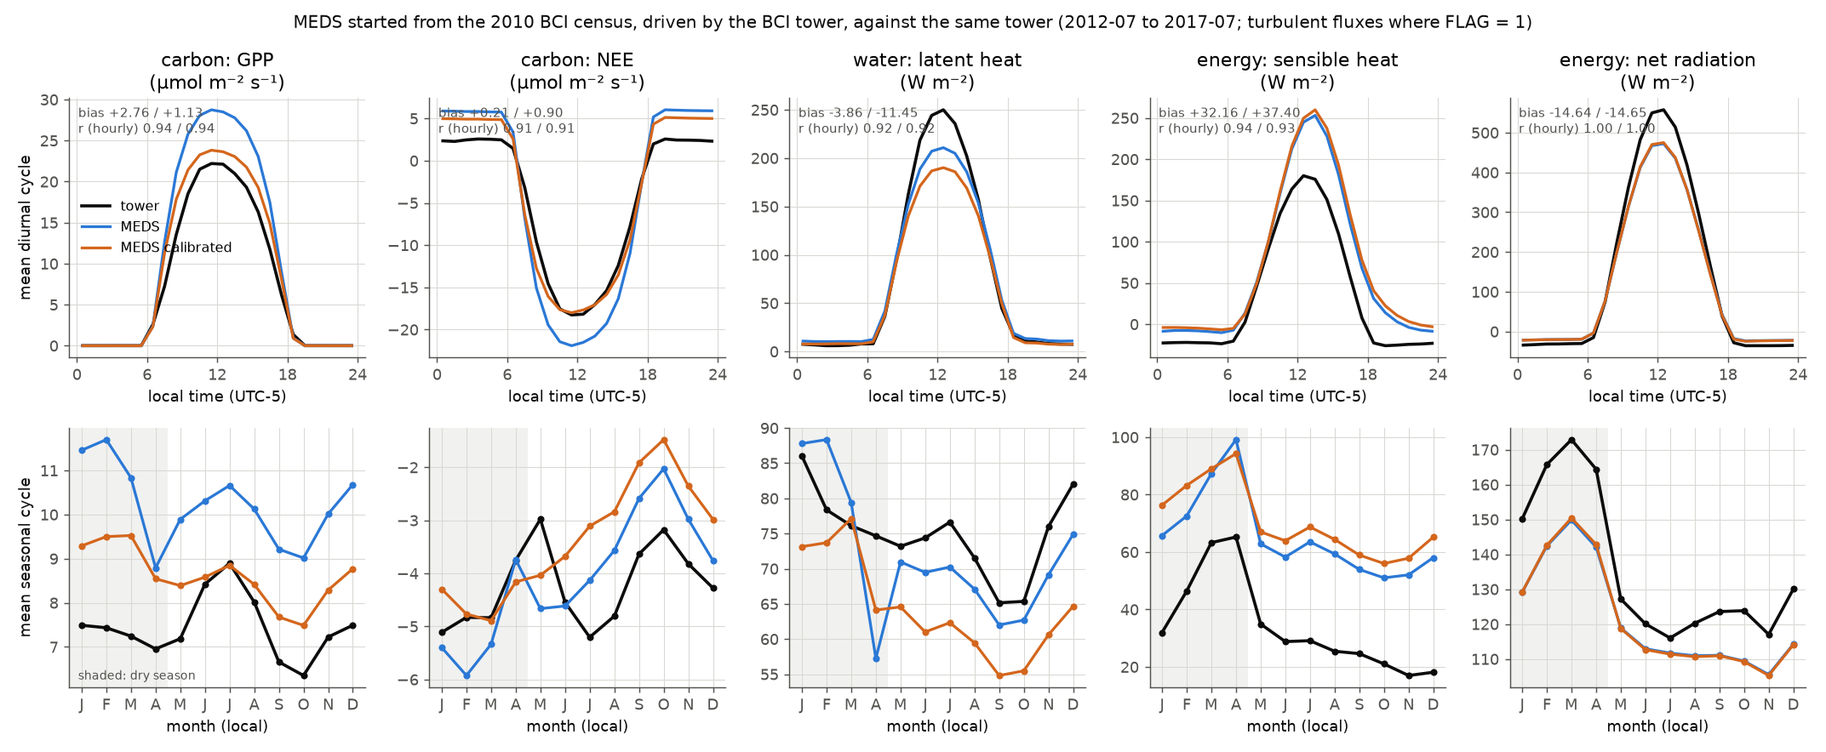
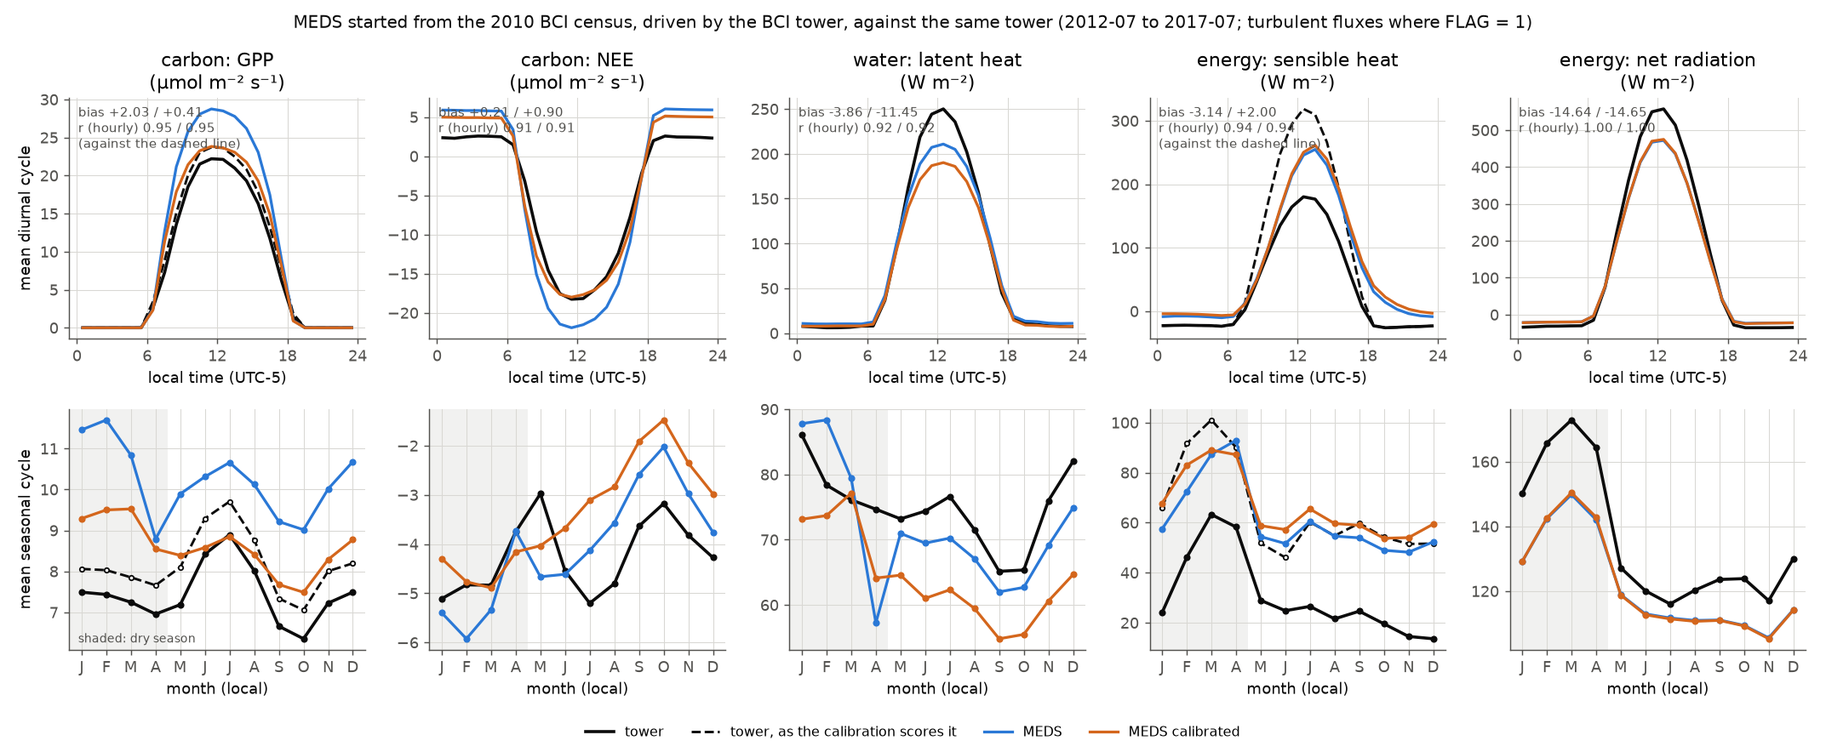
BCI example: eight threads, and compare with what the calibration scores
- [run].n_threads = 8 in the example's configs: the output is byte-identical
  to one thread's (2,436 output variables checked); a five-year run takes
  4.6 min instead of 26. docs/building.md's timings are remeasured on the
  130-patch stand.
- plot_evaluation.py draws the tower as the calibration scores it (dashed,
  by day: GPP with kappa, H and LE with the closure gap), from the
  calibration's observation models and fit.json; bias and r are against it.
  The README's table gives the tower as measured and as the fit's target:
  GPP 8.60 against 8.19 (default 10.22); H by day 141 against 167.
- The calibration figure says in words what prior z and the whisker are;
  the README explains the MAP.
- fit.json's kappa summary and report.md recomputed with the fixed summary.

diff --git a/examples/example_flux_tower_bci/plot_evaluation.py b/examples/example_flux_tower_bci/plot_evaluation.py
@@ -16,10 +16,13 @@ calendar month is shown when the tower measured at least ten days of it over the
 NEE is positive toward the atmosphere in both.
 
 With --calibrated, the calibrated run (run_example.py --calibrate) is drawn beside the default,
-and the statistics hold both.
+and the statistics hold both. With the calibration's fit (--fit, calibration/fit.json by default),
+the tower is also drawn as the calibration scores it (dashed): GPP with the tower's respiration
+divided by the fitted kappa, and H and LE with the energy-closure gap shared as the fit shared it
+(scripts/calibrate_fast/observation_models.py). Each panel's bias and r are then against that line.
 
 Usage: python plot_evaluation.py [--out evaluation.png] [--stats output/evaluation_stats.json]
-                                 [--calibrated "output/cal-F-*.nc"]
+                                 [--calibrated "output/cal-F-*.nc"] [--fit calibration/fit.json]
 """
 import argparse
 import glob
@@ -35,8 +38,13 @@ import pandas as pd  # noqa: E402
 from netCDF4 import Dataset  # noqa: E402
 
 HERE = os.path.dirname(os.path.abspath(__file__))
-sys.path.insert(0, os.path.join(HERE, "..", "..", "scripts", "prepare_flux_tower"))
+ROOT = os.path.join(HERE, "..", "..")
+for path in ("scripts/prepare_flux_tower", "scripts/calibrate_fast", "python"):
+    sys.path.insert(0, os.path.join(ROOT, path))
 import tower_inputs as ti  # noqa: E402  (the one reader of tower files)
+import observation_models as om  # noqa: E402  (the calibration's observation models)
+import settings as calibration_settings  # noqa: E402
+from meds.config import load_toml  # noqa: E402
 MIN_MONTH_HOURS = 240          # a calendar month needs at least ten days of hours the tower measured
 INK, MUTED, GRID = "#0b0b0b", "#52514e", "#d9d8d4"
 MODEL, TOWER, CALIBRATED = "#2a78d6", INK, "#d4661c"
@@ -64,14 +72,38 @@ def read_model(pattern, utc_offset_h):
     return model.where(model.abs() < 1e30)
 
 
-def read_tower(site):
+def calibration_targets(table, site, fit_path, config_path):
+    """The tower as the calibration scores it, on its measured half hours: by day (the calibration's
+    targets are daytime ones), GPP with the tower's respiration divided by kappa, and H and LE with
+    the closure gap shared as the fit shared it; at night the measured flux. Returns the columns
+    (named as the tower's) and kappa."""
+    with open(fit_path) as fh:
+        fit = json.load(fh)
+    settings = calibration_settings.complete(load_toml(config_path))
+    f, _ = om.closure_factor(table.values, table.measured, site.utc_offset, settings["closure"])
+    shares = fit["data"]["closure"]["shares"]
+    v = table.values.where(table.measured)
+    h, le = om.corrected(pd.DataFrame({"h": v["H"], "le": v["LE"], "closure_f": f}), shares["h"], shares["le"])
+    kappa = fit["map"]["kappa"]
+    day = table.values["SWdown"] > float(settings["tower"]["daytime_sw"])
+    target = pd.DataFrame({"GPP": v["GPP"] + (1.0 / kappa - 1.0) * v["RECO"], "H": h, "LE": le})
+    return target.where(day, v[["GPP", "H", "LE"]]), kappa
+
+
+def read_tower(site, fit_path=None, config_path=None):
     """The tower's measured half hours (the site TOML's reader), averaged to the model's UTC hours
-    -- an hour counts when both its half hours were measured -- and moved to local time."""
+    -- an hour counts when both its half hours were measured -- and moved to local time. With the
+    calibration's fit, also the tower as the calibration scores it (calibration_targets)."""
     table = ti.read_standard(site)
     cols = [col for _, col, *_ in PAIRS]
     tower = table.values[cols].where(table.measured[cols])
-    hourly = tower.resample("1h").mean().where(tower.resample("1h").count() == 2)
-    return hourly.set_axis(hourly.index + pd.Timedelta(hours=site.utc_offset))
+    target, kappa = (calibration_targets(table, site, fit_path, config_path) if fit_path
+                     else (pd.DataFrame(index=tower.index), None))
+
+    def hourly(df):
+        h = df.resample("1h").mean().where(df.resample("1h").count() == 2)
+        return h.set_axis(h.index + pd.Timedelta(hours=site.utc_offset))
+    return hourly(tower), hourly(target), kappa
 
 
 def stats(m, t):
@@ -88,10 +120,15 @@ def main(argv=None):
     ap.add_argument("--out", default=os.path.join(HERE, "evaluation.png"))
     ap.add_argument("--stats", default=os.path.join(HERE, "output", "evaluation_stats.json"))
     ap.add_argument("--calibrated", default=None, help="the calibrated run's hourly files (a glob)")
+    ap.add_argument("--fit", default=os.path.join(HERE, "calibration", "fit.json"),
+                    help="the calibration's fit.json, for the tower as the calibration scores it")
+    ap.add_argument("--config", default=os.path.join(HERE, "calibration.toml"), help="the calibration's settings")
     args = ap.parse_args(argv)
     site = ti.read_site(args.site)
     model = read_model(args.model, site.utc_offset)
-    tower = read_tower(site).reindex(model.index)
+    fit = args.fit if os.path.exists(args.fit) else None
+    tower, target, kappa = read_tower(site, fit, args.config)
+    tower, target = tower.reindex(model.index), target.reindex(model.index)
     cal = read_model(args.calibrated, site.utc_offset).reindex(model.index) if args.calibrated else None
 
     plt.rcParams.update({"axes.edgecolor": MUTED, "axes.labelcolor": INK, "xtick.color": MUTED,
@@ -104,56 +141,75 @@ def main(argv=None):
         both = model[mv].notna() & tower[tv].notna()
         if cal is not None:
             both &= cal[mv].notna()
+        #----- scored against the calibration's target where the target differs from the measured flux
+        scored = False
+        if tv in target:
+            known = both & target[tv].notna()
+            scored = not np.allclose(target.loc[known, tv], tower.loc[known, tv])
+        if scored:
+            both &= target[tv].notna()
         m, t = model.loc[both, mv], tower.loc[both, tv]
-        s = stats(m, t)
+        tt = target.loc[both, tv] if scored else t                    # what the bias and r are against
+        s = stats(m, tt)
+        s["tower_measured_mean"] = float(t.mean())
         c = cal.loc[both, mv] if cal is not None else None
-        sc = stats(c, t) if c is not None else None
+        sc = stats(c, tt) if c is not None else None
         #----- the mean diurnal cycle ----------------------------------------------------------#
-        md, td = m.groupby(hour[both]).mean(), t.groupby(hour[both]).mean()
-        s["r_diurnal"] = float(np.corrcoef(md, td)[0, 1])
+        md, td, ttd = m.groupby(hour[both]).mean(), t.groupby(hour[both]).mean(), tt.groupby(hour[both]).mean()
+        s["r_diurnal"] = float(np.corrcoef(md, ttd)[0, 1])
         a = ax[0, i]
         a.plot(td.index + 0.5, td.values, color=TOWER, lw=2, label="tower")
+        if scored:
+            a.plot(ttd.index + 0.5, ttd.values, color=TOWER, lw=1.6, ls="--", label="tower, as the calibration scores it")
         a.plot(md.index + 0.5, md.values, color=MODEL, lw=1.8, label="MEDS")
         if c is not None:
             cd = c.groupby(hour[both]).mean()
-            sc["r_diurnal"] = float(np.corrcoef(cd, td)[0, 1])
+            sc["r_diurnal"] = float(np.corrcoef(cd, ttd)[0, 1])
             a.plot(cd.index + 0.5, cd.values, color=CALIBRATED, lw=1.8, label="MEDS calibrated")
         a.set(title=f"{group}: {name}\n({units})", xlabel=f"local time (UTC{site.utc_offset:+g})",
               xticks=range(0, 25, 6))
         note = f"bias {s['bias']:+.2f}\nr (hourly) {s['r_hourly']:.2f}"
         if sc is not None:
             note = f"bias {s['bias']:+.2f} / {sc['bias']:+.2f}\nr (hourly) {s['r_hourly']:.2f} / {sc['r_hourly']:.2f}"
+        if scored:
+            note += "\n(against the dashed line)"
         a.text(0.03, 0.97, note, transform=a.transAxes, va="top", color=MUTED, fontsize=8.5)
         #----- the mean seasonal cycle, by calendar month --------------------------------------#
         n = m.groupby(month[both]).size()
         ms = m.groupby(month[both]).mean().where(n >= MIN_MONTH_HOURS)
         ts = t.groupby(month[both]).mean().where(n >= MIN_MONTH_HOURS)
+        tts = tt.groupby(month[both]).mean().where(n >= MIN_MONTH_HOURS)
         ok = ms.notna() & ts.notna()
-        s["r_seasonal"] = float(np.corrcoef(ms[ok], ts[ok])[0, 1]) if ok.sum() > 2 else None
+        s["r_seasonal"] = float(np.corrcoef(ms[ok], tts[ok])[0, 1]) if ok.sum() > 2 else None
         s["months_shown"] = [int(k) for k in ms.index[ok]]
         a = ax[1, i]
         a.axvspan(0.5, 4.5, color=GRID, alpha=0.35, lw=0)          # the dry season, January to April
         a.plot(ts.index, ts.values, color=TOWER, lw=2, marker="o", ms=3.5, label="tower")
+        if scored:
+            a.plot(tts.index, tts.values, color=TOWER, lw=1.6, ls="--", marker="o", ms=3, mfc="white",
+                   label="tower, as the calibration scores it")
         a.plot(ms.index, ms.values, color=MODEL, lw=1.8, marker="o", ms=3.5, label="MEDS")
         if c is not None:
             cs = c.groupby(month[both]).mean().where(n >= MIN_MONTH_HOURS)
-            sc["r_seasonal"] = float(np.corrcoef(cs[ok], ts[ok])[0, 1]) if ok.sum() > 2 else None
+            sc["r_seasonal"] = float(np.corrcoef(cs[ok], tts[ok])[0, 1]) if ok.sum() > 2 else None
             a.plot(cs.index, cs.values, color=CALIBRATED, lw=1.8, marker="o", ms=3.5, label="MEDS calibrated")
             out_cal[name] = sc
         a.set(xlim=(0.5, 12.5), xticks=range(1, 13), xticklabels=list(MONTHS), xlabel="month (local)")
         out[name] = s
-    ax[0, 0].legend(frameon=False, fontsize=9, loc="center left")
+    handles, labels = ax[0, 0].get_legend_handles_labels()
+    fig.legend(handles, labels, loc="lower center", ncol=len(labels), frameon=False, fontsize=9)
     ax[1, 0].text(0.03, 0.03, "shaded: dry season", transform=ax[1, 0].transAxes, color=MUTED, fontsize=8)
     ax[0, 0].set_ylabel("mean diurnal cycle")
     ax[1, 0].set_ylabel("mean seasonal cycle")
     years = f"{model.index.min():%Y-%m} to {model.index.max():%Y-%m}"
     fig.suptitle(f"MEDS started from the 2010 BCI census, driven by the BCI tower, against the same tower "
                  f"({years}; turbulent fluxes where FLAG = 1)", color=INK, fontsize=11)
-    fig.tight_layout()
+    fig.tight_layout(rect=(0, 0.05, 1, 1))
     fig.savefig(args.out, dpi=130)
     os.makedirs(os.path.dirname(os.path.abspath(args.stats)), exist_ok=True)
     with open(args.stats, "w") as fh:
-        json.dump({"default": out, "calibrated": out_cal} if cal is not None else out, fh, indent=2)
+        json.dump({"kappa": kappa, "default": out, "calibrated": out_cal} if cal is not None
+                  else {"kappa": kappa, "default": out}, fh, indent=2)
     print(f"figure: {args.out}")
     for label, table in (("MEDS", out), ("MEDS calibrated", out_cal)):
         if not table:

diff --git a/examples/example_flux_tower_bci/plot_calibration.py b/examples/example_flux_tower_bci/plot_calibration.py
@@ -2,9 +2,10 @@
 # SPDX-License-Identifier: Apache-2.0
 """plot_calibration.py -- the fast-parameter calibration at BCI in one figure.
 
-Left: each fitted key's prior z at the MAP -- how far the fit moved it from its prior's centre, in
-prior standard deviations of the transformed parameter -- with the posterior-to-prior sd ratio as
-the whisker; a short whisker is a key the tower informed, one near 1 a key it could not. A trait key
+Left: each fitted key's prior z at the MAP (the fit's most probable values, given the tower and
+the priors) -- how far the fit moved it from its prior's centre, in prior standard deviations of
+the transformed parameter -- with the posterior-to-prior sd ratio as the whisker; a short whisker
+is a key the tower informed, one near 1 a key it could not. A trait key
 beyond 2 is a question for the model (the report flags it). Right: each target's RMSE, in units of
 its observation error, on the validation windows, which the fit never saw, for the default and the
 calibrated set.
@@ -48,9 +49,9 @@ def main(argv=None):
     a1.axvline(0, color=MUTED, lw=0.8)
     for z in (-2, 2):
         a1.axvline(z, color=GRID, lw=0.8, ls="--")
-    a1.set(yticks=y, yticklabels=keys, xlabel="prior z at the MAP (whisker: posterior / prior sd)")
+    a1.set(yticks=y, yticklabels=keys, xlabel="shift from the prior centre [prior sd]\nwhisker: posterior sd / prior sd (short: set by the tower)")
     a1.invert_yaxis()
-    a1.set_title("fitted keys", color=INK, fontsize=10)
+    a1.set_title("the fitted keys: where the fit put them", color=INK, fontsize=10)
 
     val = rep["scores_val"]
     targets = [t for t in TARGET_NAMES if t in val["default"]]

diff --git a/examples/example_flux_tower_bci/README.md b/examples/example_flux_tower_bci/README.md
@@ -19,8 +19,9 @@ python run_example.py --calibrate --workers 40  # ... and redo the calibration f
 ```
 
 It needs numpy, pandas, netCDF4, matplotlib and a built `meds_main` (`--meds-main`, default
-`../../build-ifx/meds_main`). A five-year run takes about 26 minutes on one core, or 5 minutes with
-`[run].n_threads = 8` (`docs/building.md`). The calibration takes about 5 hours on one 40-core node;
+`../../build-ifx/meds_main`). A five-year run takes about 5 minutes on the example's 8 threads
+(`[run].n_threads`; 3 minutes on 16, 26 on one), and gives the same output at any thread count
+(`docs/building.md`). The calibration takes about 5 hours on one 40-core node;
 [`scripts/calibrate_fast`](../../scripts/calibrate_fast/README.md) runs it across a cluster.
 
 ## The data
@@ -105,10 +106,12 @@ calibrated configs, `fit.json`, and [`report.md`](calibration/report.md).
   by κ (prior 0.65 ± 0.10).
 
 **The keys.** Seven are fitted. `vcmax25` and `stomatal_g1` take their prior centres from the site's
-climate (eco-evolutionary optimality), the others from the PFT file. Prior z is how far the fit moved
-a key, in prior standard deviations:
+climate (eco-evolutionary optimality), the others from the PFT file. The calibrated value is the MAP
+(maximum a posteriori): the most probable value given both the tower and the prior. The 68 % range
+is the posterior's. Prior z is how far the fit moved a key from its prior centre, in prior standard
+deviations; in the figure, a whisker short against 1 marks a key the tower pinned down.
 
-| key | calibrated | 68 % | prior centre | prior z |
+| key | calibrated (MAP) | 68 % | prior centre | prior z |
 |---|---|---|---|---|
 | `vcmax25` [µmol m⁻² s⁻¹] | 31.4 | 30.4–32.3 | 41.0 (climate) | −0.54 |
 | `stomatal_g1` [kPa^0.5] | 3.00 | 2.88–3.11 | 2.80 (climate) | +0.14 |
@@ -140,7 +143,7 @@ Fixed:
 | all (the objective) | 61,251 | 51,377 |
 
 - **κ = 0.72** puts the tower's respiration at 4.53 µmol m⁻² s⁻¹ instead of 3.28, and its
-  GPP at 3.33 kgC m⁻² yr⁻¹ instead of 2.86.
+  GPP, which gains the extra respiration by day only, at 3.14 kgC m⁻² yr⁻¹ instead of 2.86.
 - **The closure is the largest uncertainty.** Sharing the gap between H and LE (the Bowen ratio)
   instead moves `stomatal_g1` to 4.59 and `wstress_sref_stomata` to 0.11.
 - **The intervals are rough:** they are local (Laplace), and the fit stops when an iteration gains
@@ -150,27 +153,32 @@ Fixed:
 
 ![MEDS against the BCI tower: mean diurnal and seasonal cycles of carbon, water and energy](evaluation.png)
 
-Over the tower's measured hours, 2012-08 to 2017-07:
+The dashed lines are the tower as the calibration scores it, by day: GPP with its respiration
+divided by κ, and H with the energy-closure gap added (LE takes none of it, so it is as measured).
+The table gives both, over the tower's measured hours, 2012-08 to 2017-07; each row uses the same
+hours in every column.
 
-| | tower | default | calibrated |
-|---|---|---|---|
-| GPP [µmol m⁻² s⁻¹] | 7.46 (8.69 with κ) | 10.22 | 8.60 |
-| NEE [µmol m⁻² s⁻¹] | −4.24 | −4.03 | −3.34 |
-| LE [W m⁻²] | 75.5 | 71.6 | 64.0 |
-| H [W m⁻²] | 32.4 (as measured) | 64.6 | 69.8 |
-| net radiation [W m⁻²] | 136.3 | 121.7 | 121.7 |
-| albedo, shortwave above 200 W m⁻² | 0.129 | 0.183 | 0.176 |
-| u\* at night / at midday [m s⁻¹] | 0.41 / 0.71 | 0.84 / 1.12 | 0.48 / 0.69 |
-| midday (11–14 h) GPP, LE, H | 21.8, 243, 173 | 28.3, 208, 236 | 23.5, 188, 241 |
-| stand at the end: LAI, AGB [kgC m⁻²] | | 5.40, 17.8 | 5.48, 17.2 |
+| | tower, measured | tower, the fit's target | default | calibrated |
+|---|---|---|---|---|
+| GPP [µmol m⁻² s⁻¹] | 7.46 | 8.19 | 10.22 | 8.60 |
+| LE [W m⁻²] | 75.5 | 75.5 | 71.6 | 64.0 |
+| H by day [W m⁻²] | 91.3 | 166.6 | 135.9 | 140.8 |
+| H at night [W m⁻²] | −24.0 | −24.0 | −3.9 | 1.4 |
+| midday (11–14 h) GPP, LE, H | 21.8, 243, 174 | 23.3, 243, 307 | 28.3, 208, 238 | 23.5, 188, 242 |
+| NEE [µmol m⁻² s⁻¹] | −4.24 | | −4.03 | −3.34 |
+| net radiation [W m⁻²] | 136.3 | | 121.7 | 121.7 |
+| albedo, shortwave above 200 W m⁻² | 0.129 | | 0.183 | 0.176 |
+| u\* at night / at midday [m s⁻¹] | 0.42 / 0.71 | 0.42 / 0.71 | 0.85 / 1.12 | 0.48 / 0.69 |
+| stand at the end: LAI, AGB [kgC m⁻²] | | | 5.40, 17.8 | 5.48, 17.2 |
 
-- **Carbon:** calibrated GPP matches the tower's corrected for κ, and u\* is close to the tower's.
-- **Energy:** the model's canopy reflects too much, so net radiation is 15 W m⁻² short. Against
-  the closure-corrected tower (H about 68 W m⁻² overall), the model's H is too high at night (about
-  0 against −24 W m⁻²) and too low by day (0.77 of it in the fit's windows).
-- **Water:** the calibration lowers LE, from 71.6 to 64.0 W m⁻² against the tower's 75.5. In the
-  dry season (January to April) its errors are smaller than the default's: GPP RMSE 3.98 against
-  6.36 µmol m⁻² s⁻¹, and LE RMSE 35.3 against 38.7 W m⁻².
+- **Carbon:** the calibration brings GPP from 25 % above its target to 5 % above (midday: 23.5
+  against 23.3), and u\* close to the tower's.
+- **Energy:** the model's canopy reflects too much, so net radiation is 15 W m⁻² short, and by day
+  its H is 0.85 of the target (242 against 307 at midday). At night its H is near 0 against the
+  tower's −24 W m⁻².
+- **Water:** the calibration lowers LE, from 71.6 to 64.0 W m⁻² against the tower's 75.5.
+- **The dry season** (January to April), RMSE against the targets: GPP 3.42 against the default's
+  5.71 µmol m⁻² s⁻¹, LE 35.3 against 38.7, H 71.2 against 68.3 W m⁻².
 - **Budgets:** whole-site energy and water close in every check of both runs.
 
 ## Files

diff --git a/CHANGELOG.md b/CHANGELOG.md
@@ -151,8 +151,10 @@ before and after.
     (`[fast].canopy_water_on`) and fuses the census strictly, the demography calibration's choice:
     `patch_light_tol` 0.10 → 0.04, `patch_light_tol_max` 0.15 → 0.08 and `max_patch` 12 → 60. The
     census now starts as 130 patches and 1,924 cohorts instead of 25 and 419, so the gaps stay apart
-    from the closed forest. A five-year run takes 26 min on one core (was 6) and 4.7 min on eight
-    threads (was 1.4). The fusion barely moves the stand's fluxes, and with the interception the
+    from the closed forest. A five-year run takes 26 min on one core (was 6) and 4.6 min on eight
+    threads (was 1.4), and the example now asks for eight (`[run].n_threads = 8`; the output is
+    byte-identical to one thread's, all 2,436 output variables checked). `docs/building.md`'s timings
+    are remeasured on this stand: 16 threads run 8× faster than one. The fusion barely moves the stand's fluxes, and with the interception the
     default run goes from GPP 10.30 to 10.22 µmol m⁻² s⁻¹, LE 67.7 to 71.6 and H 68.1 to 64.6 W m⁻².
   - **One fit, no variants.** `calibration.toml` drops `[variants]` and a redundant `[overrides]`
     entry. One `fit.json` and `report.md` replace the two variants' files and `variants.json`.
@@ -162,9 +164,15 @@ before and after.
     0.78. Every key is within one posterior sd of the same fit with the old fusion. The validation
     passes, in σ, default against calibrated: GPP 2.05 → 1.44, u\* 1.73 → 0.67, upwelling longwave
     3.81 → 3.54, LE 1.65 → 1.58, H 4.16 → 4.28.
-  - **The five years, calibrated** (was the interception-off set): GPP 8.60 µmol m⁻² s⁻¹ (was 8.41;
-    the tower corrected for κ: 8.69); LE 64.0 (60.6) and H 69.8 (74.4) W m⁻²; u\* at night 0.48
-    (0.49) m s⁻¹, tower 0.41.
+  - **The five years, calibrated** (was the interception-off set): GPP 8.60 µmol m⁻² s⁻¹ (was 8.41)
+    against the fit's target of 8.19 (the tower's GPP with its respiration divided by κ, by day);
+    LE 64.0 (60.6) W m⁻²; H by day 141 against the closure-corrected tower's 167; u\* at night 0.48
+    (0.49) m s⁻¹, tower 0.42.
+  - **The evaluation compares with what the calibration scores.** `plot_evaluation.py` draws the
+    tower as the calibration scores it (dashed, by day: GPP with κ, H and LE with the closure gap),
+    from the calibration's own observation models and `fit.json`, and each panel's bias and r are
+    against it. The README's table gives the tower both as measured and as the fit's target, and
+    the calibration figure's axes say in words what prior z and its whisker are.
   - **The README** is rewritten around the pipeline and its results.
   - **`calibrate_fast`'s registry no longer ties a key to a variant's name.** The wet-canopy keys
     (`leaf_surf_water_max`, `wood_surf_water_max`, `intercept_k`) loaded only under a variant called
@@ -172,6 +180,9 @@ before and after.
     They are always in the registry: with interception off they have no effect, and the triage fixes
     such a key. The report, the fit's log and the calibrated files name a variant only when there is
     one.
+  - **`calibrate_fast`'s κ summary added the scaled respiration to GPP at night too,** where there
+    is no GPP; GPP's observation model adds it by day only. At BCI the GPP that κ implies is 8.29
+    µmol m⁻² s⁻¹ (3.14 kgC m⁻² yr⁻¹), not 8.79 (3.33). The fit itself was right.
 - **`calibrate_fast`, cleaned up after its review** (#365; `docs/dev_plans/MEDS_CALIBRATE_FAST_REVIEW_2026-10-04.md`;
   the owner's decisions D1–D4). The BCI fit's values are unchanged; its validation windows moved
   (below).

diff --git a/docs/building.md b/docs/building.md
@@ -123,20 +123,20 @@ fast-loop target, **and it adds the per-compiler "all locals on the stack" flag*
 places local arrays and derived types in static storage shared by every thread; without that flag
 the kernels race and return plausible, silently thread-count-dependent numbers.
 
-**What threads buy.** The BCI census example (25 patches falling to 14), ifx Release, each run alone
-on an idle `R128C40` node, the second of two runs:
+**What threads buy.** The BCI flux-tower example (130 census patches, falling to about 57 over the
+five years), ifx Release, each run alone on an idle `R128C40` node; the 60-day times are the second
+of two runs:
 
 | `n_threads` | 60 days | five years |
 |---|---|---|
-| 1 | 25.5 s | 6 min 43 s |
-| 4 | 15.1 s | 2 min 23 s |
-| 8 | 12.3 s | 1 min 36 s |
-| 16 | 12.1 s | 1 min 25 s |
+| 1 | 82 s | 26 min 0 s |
+| 4 | 30 s | 7 min 53 s |
+| 8 | 20 s | 4 min 34 s |
+| 16 | 16 s | 3 min 12 s |
+| 32 | 14 s | 2 min 37 s |
 
-- **Sixty days is mostly start-up:** the serial census read and restructuring, and the forcing read,
-  take about 8 s.
-- **A site run gains little past about 14 threads,** because the patches are the parallel axis
-  and BCI keeps 14–25 of them.
+- **The patches are the parallel axis,** so a site run gains while it has more patches than
+  threads: at BCI 16 threads run 8× faster than one, and 32 only 20 % faster than 16.
 - **v0.3.1 was slower above four threads** (#325: 41.5 s at 8 threads and 56.7 s at 16 on the
   60-day case). ifx allocates a lock-guarded record on every call of a routine that hands one of
   its contained functions to another routine, and two such routines sat in the fast loop. No MEDS

diff --git a/examples/example_flux_tower_bci/calibration/report.md b/examples/example_flux_tower_bci/calibration/report.md
@@ -55,7 +55,7 @@ ustar, by light: SW quartile 1 0.99, SW quartile 2 0.94, SW quartile 3 0.90, SW 
 
 ## kappa
 
-kappa = 0.724: the tower's respiration 3.28 -> 4.53 umol m-2 s-1; GPP 7.54 -> 8.79 (2.86 -> 3.33 kgC m-2 yr-1), means over the records with GPP and its respiration measured (daytime and night).
+kappa = 0.724: the tower's respiration 3.28 -> 4.53 umol m-2 s-1; GPP 7.54 -> 8.29 (2.86 -> 3.14 kgC m-2 yr-1), means over the records with GPP and its respiration measured, day and night; GPP gains the scaled respiration by day only.
 
 ## Uncertainty
 
